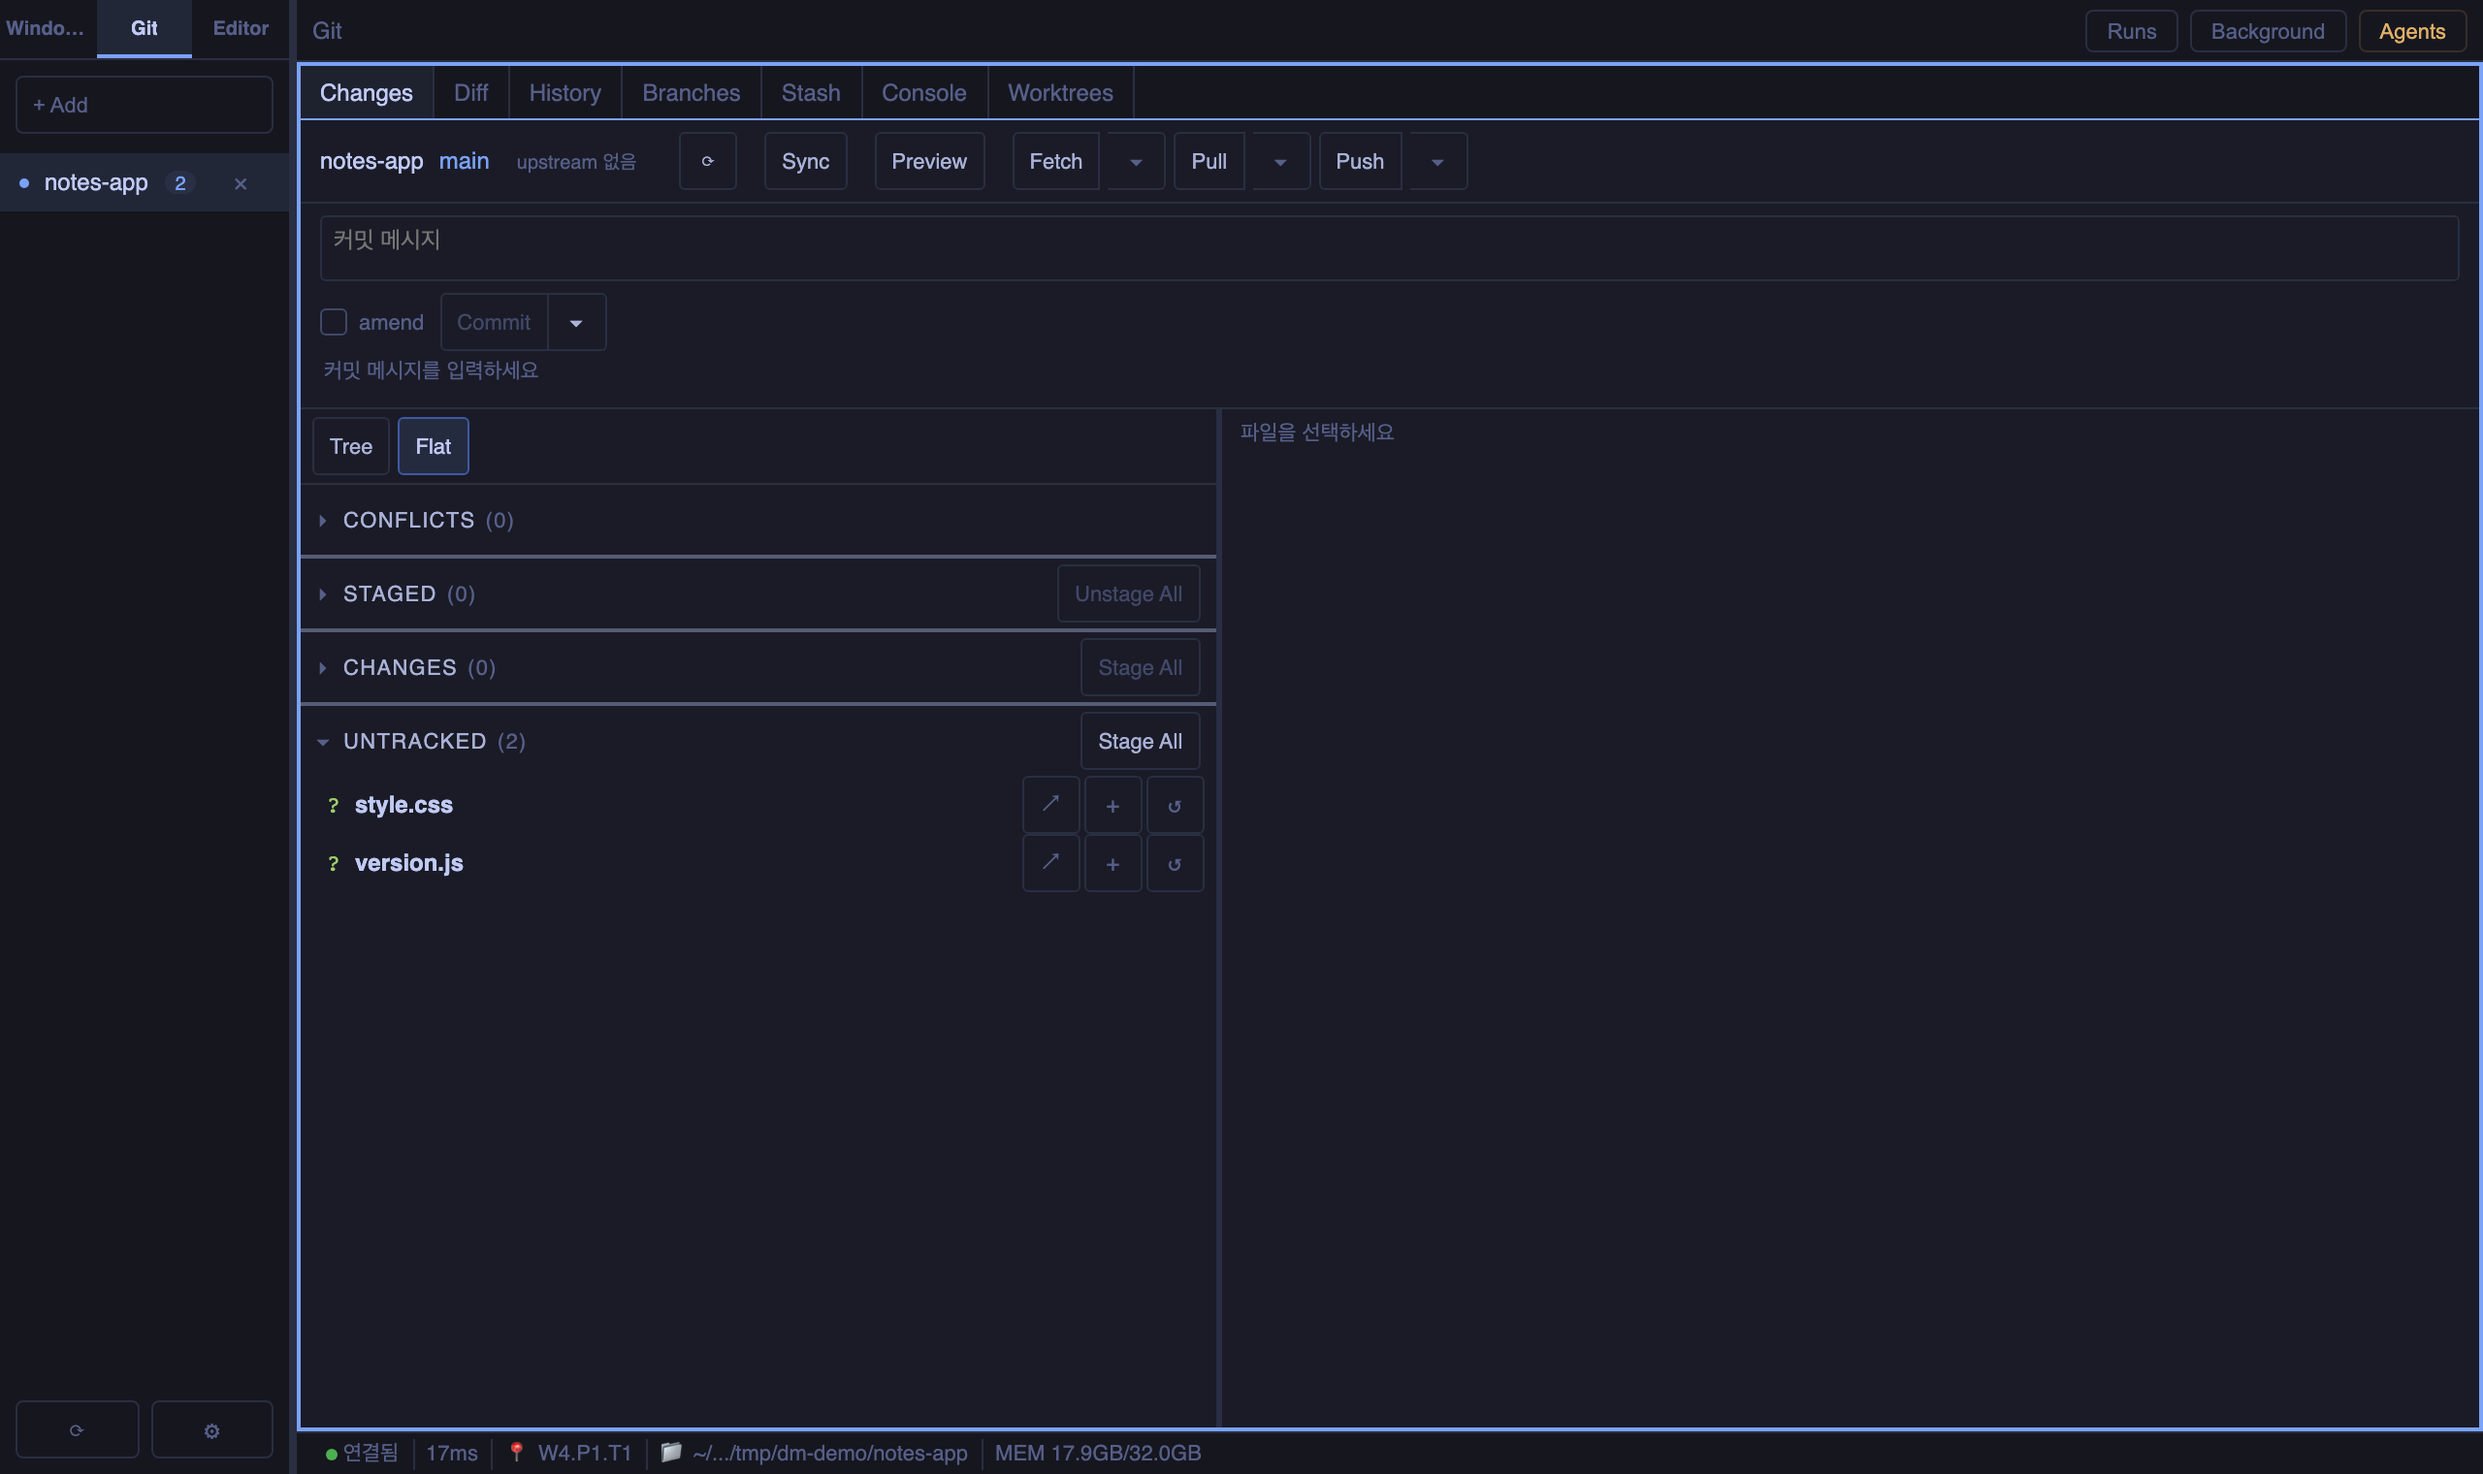
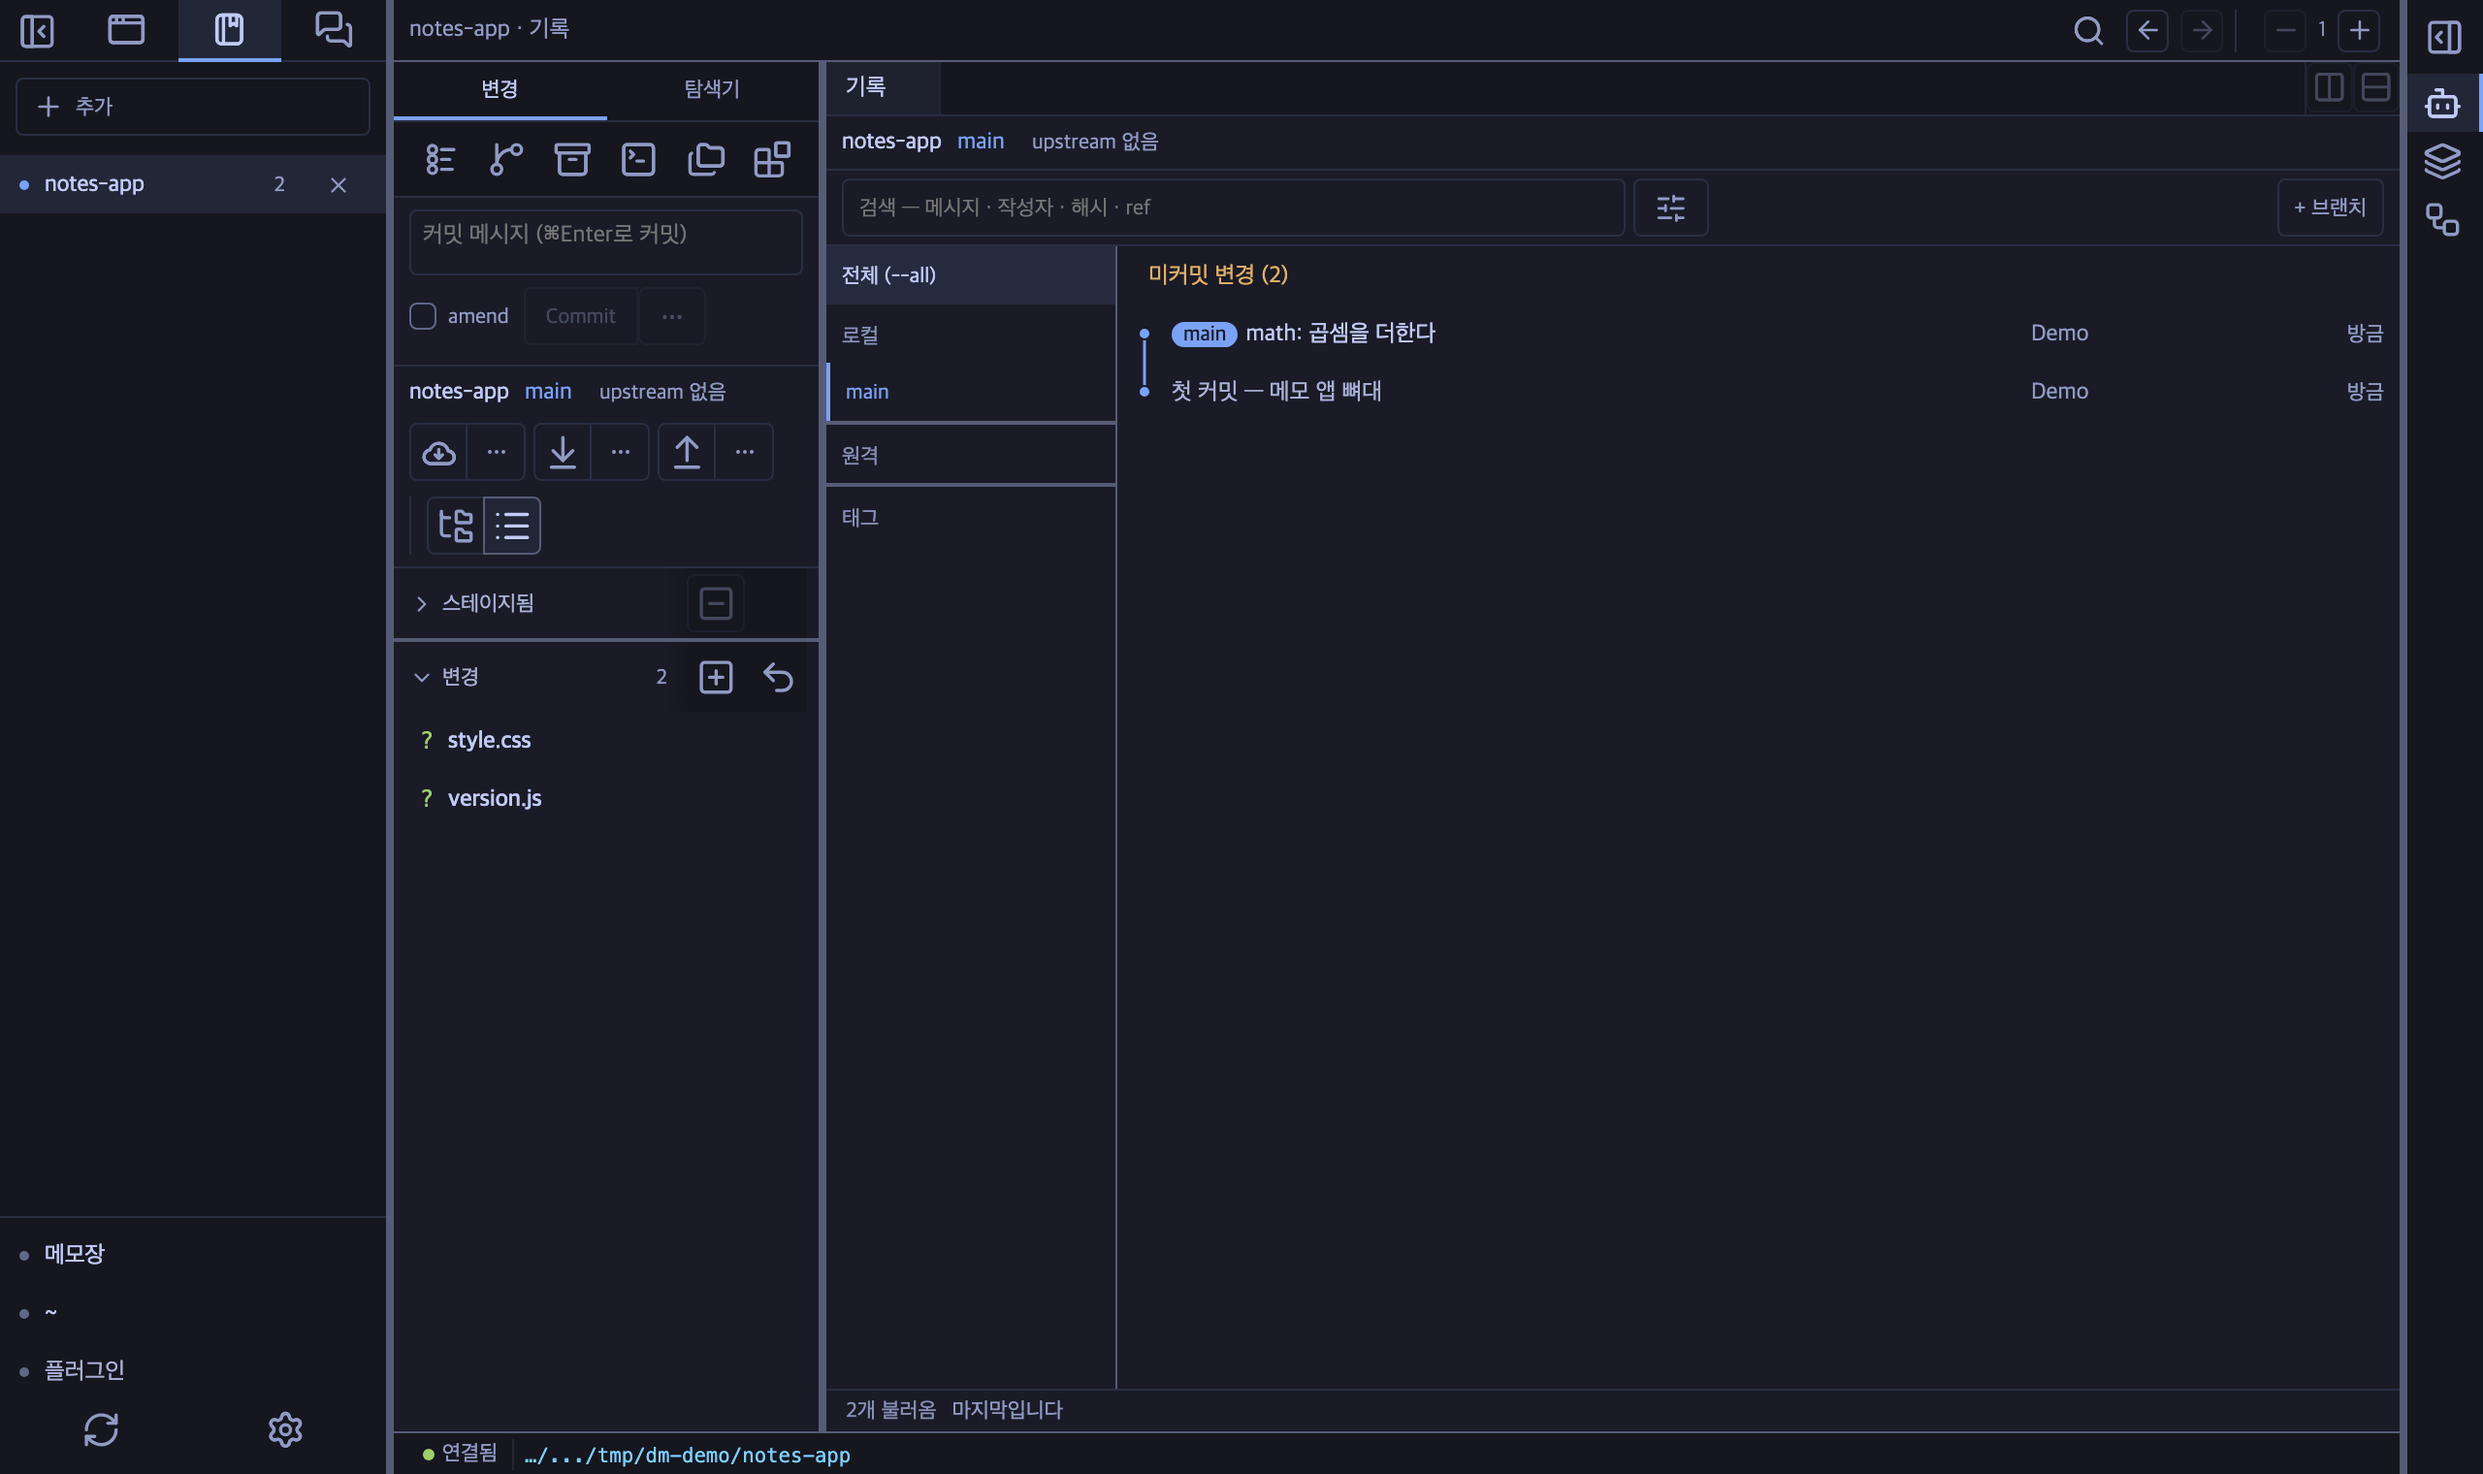
docs: 사용자 문서를 지금 화면·코드에 맞추고 그림 세 장을 다시 찍는다 — 패널 이름, 설정 탭의 한국어 이름, 레일 사용량·메인색·모바일 키바·채팅 탭·간선 상한·statusStale. 촬영은 빈 홈·가짜 홈 bash 로 해 호스트명이 보이지 않는다 (PANEL_TERMS_SRS FR-PNT-3, README_REWRITE_SRS FR-RDM-16)

diff --git a/scripts/shots/capture.spec.ts b/scripts/shots/capture.spec.ts
@@ -13,6 +13,8 @@ const BASE = process.env.SHOT_BASE || 'http://127.0.0.1:58199';
 async function boot(page: Page) {
   await page.context().addInitScript(() => {
     sessionStorage.setItem('displayMode', 'desktop');
+    // 헤드리스 캡처에서는 WebGL 캔버스가 비어 찍힌다 — 터미널은 DOM 렌더로 찍는다 (TERMINAL_GPU_RENDER_SRS 의 끄기 키).
+    localStorage.setItem('termGpu', '0');
   });
   await page.goto(BASE);
   await page.waitForSelector('#area .pn.focused .xterm-helper-textarea', { timeout: 20000 });
@@ -39,7 +41,8 @@ async function neutralShell(page: Page, cmds: string[] = []) {
 test('01 — 터미널과 분할', async ({ page }) => {
   await boot(page);
   await neutralShell(page, ['cd /tmp/dm-demo/notes-app && ls']);
-  await page.click('#split-v');
+  // 분할 단추는 탭 줄 끝의 아이콘이다 — 자리가 바뀌어도 깨지지 않게 명령으로 나눈다.
+  await page.evaluate(() => (window as any).app.testing.execRemote('splitV', {}));
   await page.waitForTimeout(900);
   await neutralShell(page, ['cd /tmp/dm-demo/notes-app && git log --oneline --graph --all']);
   await page.screenshot({ path: `${OUT}/terminal.png` });
@@ -50,9 +53,18 @@ test('02 — Git 창', async ({ page }) => {
   // 촬영이 깨진다. 여기서 재려는 것은 고정된 뒤의 **화면**이다.
   await page.request.post(`${BASE}/api/git/repos/pin`, { data: { path: '/tmp/dm-demo/notes-app' } });
   await boot(page);
-  await page.click('.sb-tab[data-panel="git"]');
-  await page.waitForTimeout(600);
-  await page.locator('#git-list .git-repo, #git-repos .git-repo').first().click().catch(() => {});
+  // 목록 패널의 `저장소` 탭을 보이고, 저장소 창을 열어 `기록` 을 본문에 띄운다.
+  // 목록 패널의 `저장소` 탭에서 notes-app 행을 눌러 그 저장소 창을 연다.
+  // 경로로 열면 macOS 의 `/tmp` → `/private/tmp` 때문에 다른 창(홈)이 앞에 설 수 있다 — 홈 목록이 찍히면 안 된다.
+  await page.click('.sb-tab[data-panel="repo"]');
+  await page.locator('#sb-panel-repo .sbl-item', { hasText: 'notes-app' }).first().click();
+  await page.waitForSelector('#area .ed-win .ed-side', { timeout: 15000 });
+  await expect(page.locator('#area .ed-win .ed-side')).not.toContainText('.claude');
+  await page.evaluate(() => {
+    const a = (window as any).app;
+    a.testing.edSetSide(a.testing.aw(), 'changes');
+    a.gitPanel?.selection.openView('history');
+  });
   await page.waitForTimeout(1800);
   await page.screenshot({ path: `${OUT}/git.png` });
 });
@@ -62,6 +74,9 @@ test('03 — 설정과 테마', async ({ page }) => {
   await neutralShell(page);
   await page.click('#settings-btn');
   await expect(page.locator('#modal-overlay')).toBeVisible();
-  await page.waitForTimeout(500);
+  // 프로필 탭에는 기기 이름(호스트명)과 지문이 보인다 — 공개 문서에는 테마 탭(메인색·테마 목록)을 찍는다.
+  await page.locator('#modal-overlay').getByRole('tab', { name: '테마', exact: true }).click();
+  await page.waitForTimeout(600);
+  await expect(page.locator('#pf-name')).toBeHidden();
   await page.screenshot({ path: `${OUT}/settings.png` });
 });
